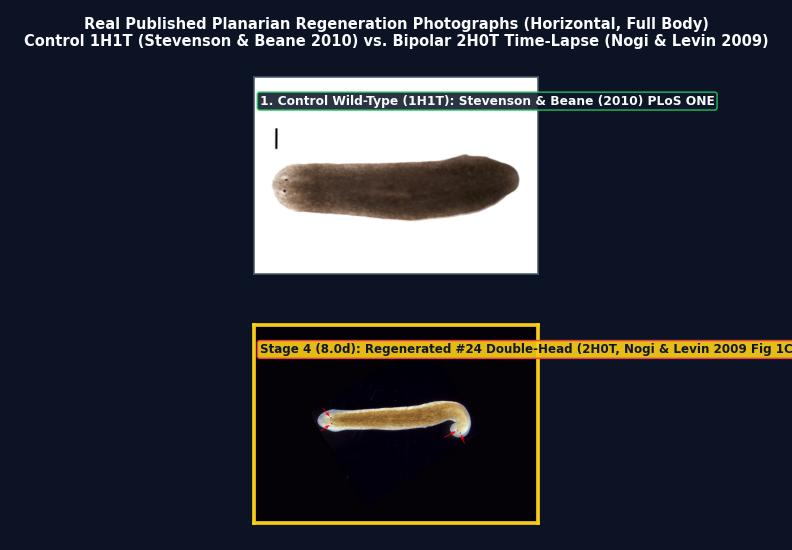
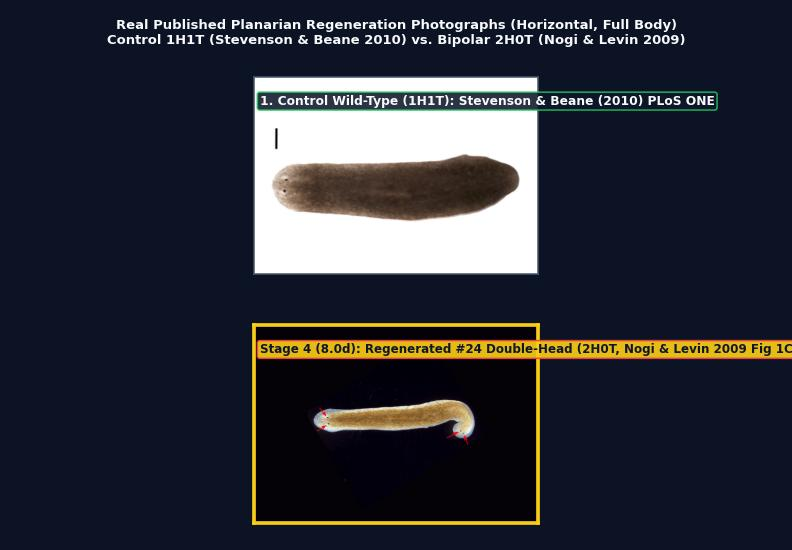
Fix clipped suptitle on cervera_levin_mafe_gj_block.gif

Changed region(s): [[0.0303, 0.0309, 0.9697, 0.0927], [0.5152, 0.7109, 0.6061, 0.8036], [0.3939, 0.7418, 0.4848, 0.8036]]

diff --git a/morphoeval/upgrade_planarian_assets.py b/morphoeval/upgrade_planarian_assets.py
@@ -490,8 +490,8 @@ def generate_planform_and_cervera_assets():
 
         fig_cs.suptitle(
             "Real Published Planarian Regeneration Photographs (Horizontal, Full Body)\n"
-            "Control 1H1T (Stevenson & Beane 2010) vs. Bipolar 2H0T Time-Lapse (Nogi & Levin 2009)",
-            color="#f8fafc", fontsize=9.6, fontweight="bold", y=0.97
+            "Control 1H1T (Stevenson & Beane 2010) vs. Bipolar 2H0T (Nogi & Levin 2009)",
+            color="#f8fafc", fontsize=8.6, fontweight="bold", y=0.965
         )
 
     anim_cs = FuncAnimation(fig_cs, update_cervera_specimen, frames=len(f2_vals), interval=180)
@@ -516,7 +516,7 @@ def generate_planform_and_cervera_assets():
     rgb_ctrl, inside_ctrl, _ = cerv.territory_image(mask, x_ctrl, z, dom_ctrl, g_profile)
 
     fig_cg = plt.figure(figsize=(7.2, 5.0), dpi=100, facecolor="#0b1325")
-    gs_cg = fig_cg.add_gridspec(2, 1, height_ratios=[1.0, 1.0], hspace=0.26, left=0.04, right=0.96, top=0.86, bottom=0.05)
+    gs_cg = fig_cg.add_gridspec(2, 1, height_ratios=[1.0, 1.0], hspace=0.26, left=0.04, right=0.96, top=0.83, bottom=0.05)
     a_top = fig_cg.add_subplot(gs_cg[0, 0], facecolor="#0f172a")
     a_bot = fig_cg.add_subplot(gs_cg[1, 0], facecolor="#060911")
 
@@ -590,9 +590,9 @@ def generate_planform_and_cervera_assets():
             sp.set_linewidth(2.4 if is_bipolar else 1.2)
 
         fig_cg.suptitle(
-            "Cervera, Levin & Mafé (2021) — 2D Bioelectric & Morphogen Polarity Simulation (Horizontal, Head-Left)\n"
-            "Top: Control 1H1T Polarity  |  Bottom: Gap-Junction Blockade → Bipolar 2H0T Double-Head Regeneration",
-            color="#facc15", fontsize=9.4, fontweight="bold", y=0.97
+            "Cervera, Levin & Mafé (2021) — 2D Bioelectric & Morphogen Polarity (Head-Left)\n"
+            "Top: Control 1H1T Polarity  |  Bottom: GJ Blockade → Bipolar 2H0T Double-Head",
+            color="#facc15", fontsize=8.4, fontweight="bold", y=0.945
         )
 
     anim_cg = FuncAnimation(fig_cg, update_cervera_sim, frames=len(f2_vals), interval=180)
